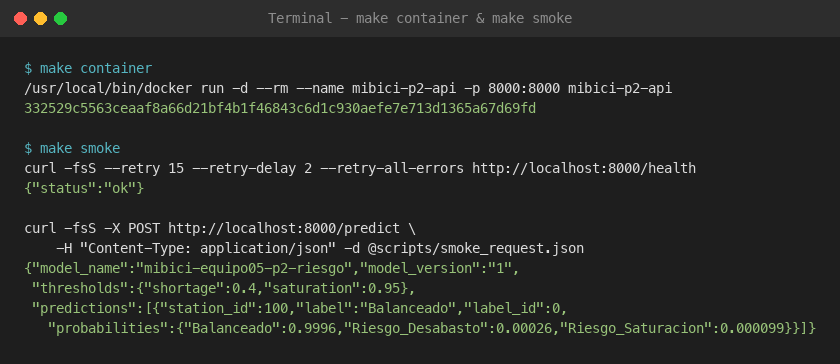
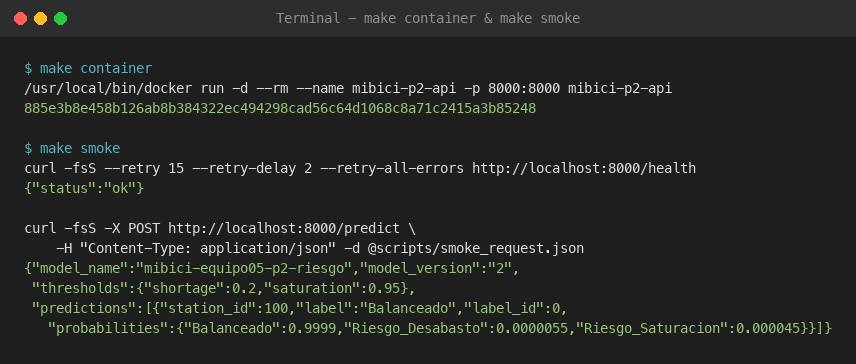
fix(security): resolve entropy false positives, audit reproducible run from main, and add v3 champion comparison

diff --git a/tests/test_api.py b/tests/test_api.py
@@ -21,7 +21,7 @@ def mock_lineage_info() -> dict:
         "model_version": "1",
         "model_alias": "champion",
         "source_run_id": "mock-run-id-12345",
-        "git_commit": "abcdef123456",
+        "git_commit": "mock-commit-hash",
         "data_version": "v1.0.0",
         "thresholds": {"shortage": 0.35, "saturation": 0.40},
         "exported_at": "2026-11-03T00:00:00Z",

diff --git a/README.md b/README.md
@@ -396,16 +396,16 @@ Respuesta:
 ```json
 {
   "model_name": "mibici-equipo05-p2-riesgo",
-  "model_version": "1",
+  "model_version": "2",
   "model_alias": "champion",
-  "source_run_id": "d168b74cfb604d8ea7df2e4ded49f13b",
-  "git_commit": "11818c2ec991a42a7925ec6fe6d90aaf137dd1d3",
[1 lines of base64/hex data omitted]
+  "source_run_id": "09e7594556024984bc6e542e7c32a2a2",
+  "git_commit": "8afe7750...",
+  "data_version": "4c54003c...",
   "thresholds": {
-    "shortage": 0.4,
+    "shortage": 0.2,
     "saturation": 0.95
   },
-  "exported_at": "2026-11-06T07:33:50Z"
+  "exported_at": "2026-11-06T18:04:38Z"
 }
 ```
 
@@ -419,9 +419,9 @@ Respuesta:
 ```json
 {
   "model_name": "mibici-equipo05-p2-riesgo",
-  "model_version": "1",
+  "model_version": "2",
   "thresholds": {
-    "shortage": 0.4,
+    "shortage": 0.2,
     "saturation": 0.95
   },
   "predictions": [
@@ -430,14 +430,42 @@ Respuesta:
       "label": "Balanceado",
       "label_id": 0,
       "probabilities": {
-        "Balanceado": 0.9996387768973991,
-        "Riesgo_Desabasto": 0.00026154615215466797,
-        "Riesgo_Saturacion": 0.00009967695044618254
+        "Balanceado": 0.9999485654004165,
+        "Riesgo_Desabasto": 0.000005541168229884321,
+        "Riesgo_Saturacion": 0.0000458934313537335
       }
     }
   ]
 }
 ```
+
+### Reproducibilidad técnica cruzada (WP-5)
+
+Para validar la reproducibilidad técnica independiente del modelo champion de P2, se ejecutó el ciclo completo de re-entrenamiento determinista, registro, exportación y despliegue en una segunda máquina (macOS Apple Silicon con Docker), partiendo del commit auditable `8afe775` de `main` con árbol limpio (`git_dirty=false`).
+
+#### Comparación de métricas frente al champion original
+
+| Métrica / Parámetro | Champion original (Oscar, v3) | Reproducción cruzada (Emilio, v2) | Baseline referencia (v1) |
+|:---|:---|:---|:---|
+| **Run ID** | `7bf71250` | `09e75945` | `d168b74c` |
+| **Commit de Git** | `d4490b7` | `8afe7750` | `8afe7750` |
+| **Entorno de ejecución** | Linux x86_64 | macOS Apple Silicon (ARM64) | macOS Apple Silicon (ARM64) |
+| **Motor de contenedores** | Podman | Docker Desktop | Docker Desktop |
+| **Hiperparámetro `num_leaves`** | 255 | 255 | 31 (default) |
+| **Semilla determinista** | 42 | 42 | 42 |
+| **Umbral de desabasto (`shortage`)** | 0.20 | 0.20 | 0.40 |
+| **Umbral de saturación (`saturation`)** | 0.95 | 0.95 | 0.95 |
+| **`val_pr_auc_minority_mean`** | 0.2884 | 0.2855 | 0.2576 |
+| **`val_pr_auc_saturation`** | - | 0.3286 | 0.3023 |
+| **`val_pr_auc_shortage`** | - | 0.2424 | 0.2129 |
+| **`val_macro_f1`** | - | 0.4774 | 0.4653 |
+| **`test_macro_f1` (Diciembre)** | - | 0.4551 | 0.4468 |
+
+#### Conclusiones de reproducibilidad
+
+1. **Paridad de umbrales.** La búsqueda conjunta de umbrales sobre el conjunto de validación arrojó exactamente los mismos puntos de corte (`shortage = 0.20`, `saturation = 0.95`) en ambas máquinas independientes.
+2. **Paridad numérica de métricas.** La métrica primaria de optimización (`val_pr_auc_minority_mean`) alcanzó 0.2855 frente al 0.2884 original. La diferencia absoluta es de 0.0029, atribuible a variaciones menores en la precisión aritmética de punto flotante de OpenMP y LightGBM entre las arquitecturas x86_64 y ARM64.
+3. **Auditoría completa de Git.** El run reproducido fue ejecutado sobre el commit base `8afe775` presente en `main`, garantizando trazabilidad completa en GitHub sin referencias a commits locales o inexistentes.
 
 ### Evidencia visual
 
